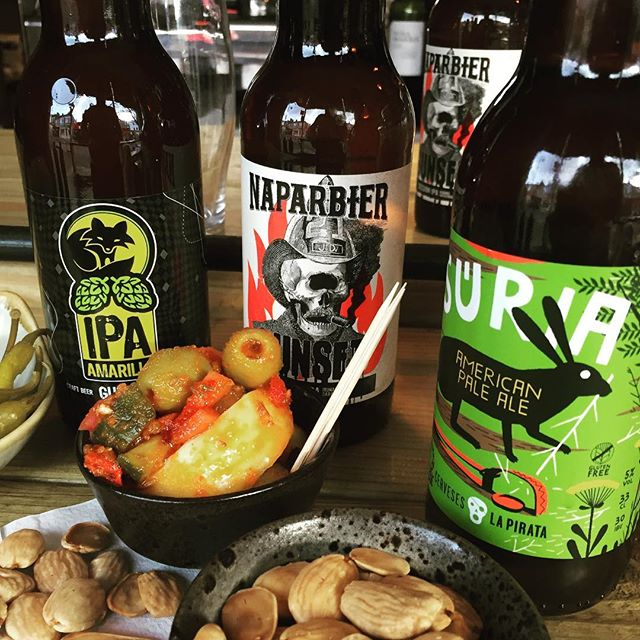
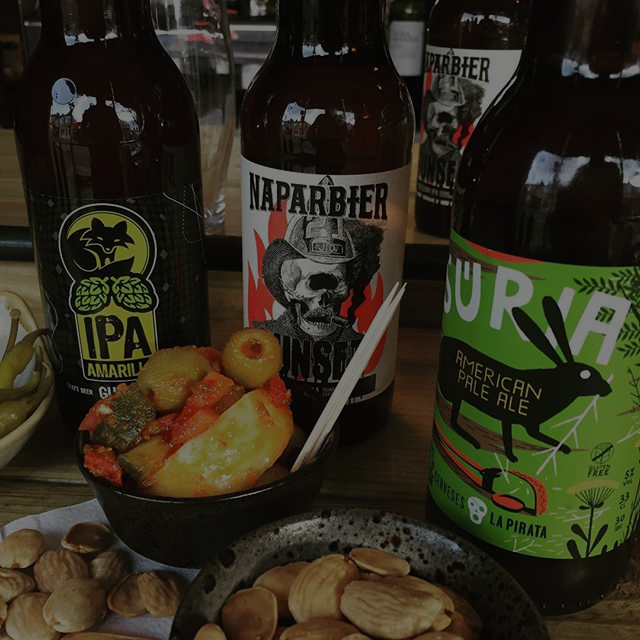
Add/edit bg images in tiles

diff --git a/style.css b/style.css
@@ -97,7 +97,7 @@ a:hover {
 .hero-tile {
   grid-column: 1 / 9;
   height: 510px;
-  background-image: url("./assets/images/dummy2.jpg");
+  background-image: url("./assets/images/dummy-storefront.jpg");
   background-repeat:no-repeat;
   background-size:cover;
   color: white;
@@ -142,9 +142,6 @@ a:hover {
   background-repeat:no-repeat;
   background-size:cover;
   background-position:center center;
-  /* testing out some css filters */
-  opacity: 0.75;
-  filter: contrast(200%);
 }
 
 .drinks-tile h2,
@@ -188,6 +185,10 @@ a:hover {
   grid-column: 10 / -1;
   height: auto;
   text-align: center;
+  background: url("./assets/images/menus.jpg");
+  background-repeat:no-repeat;
+  background-size:cover;
+  background-position:center center;
 }
 
 .shop-tile {
@@ -195,7 +196,7 @@ a:hover {
   height: 480px;
   color: white;
   text-align: center;
-  background: url("./assets/images/shop-bg2.jpg");
+  background: url("./assets/images/shop-bg.jpg");
   background-repeat:no-repeat;
   background-size:cover;
   background-position:center center;
@@ -215,7 +216,7 @@ a:hover {
 .club-tile {
   grid-column: 7 / -1;
   height: 480px;
-  background: url("./assets/images/supperclub.jpg");
+  background: url("./assets/images/supper-club.jpg");
   background-repeat:no-repeat;
   background-size:cover;
   background-position:center center;
@@ -322,7 +323,7 @@ a:hover {
   grid-column: 1 / -1;
   grid-row: 2 / 3;
   height: 120px;
-  background-image: url("./assets/images/dummy2.jpg");
+  background-image: url("./assets/images/dummy-storefront.jpg");
   background-repeat: no-repeat;
   background-size: cover;
   background-position: center center;
